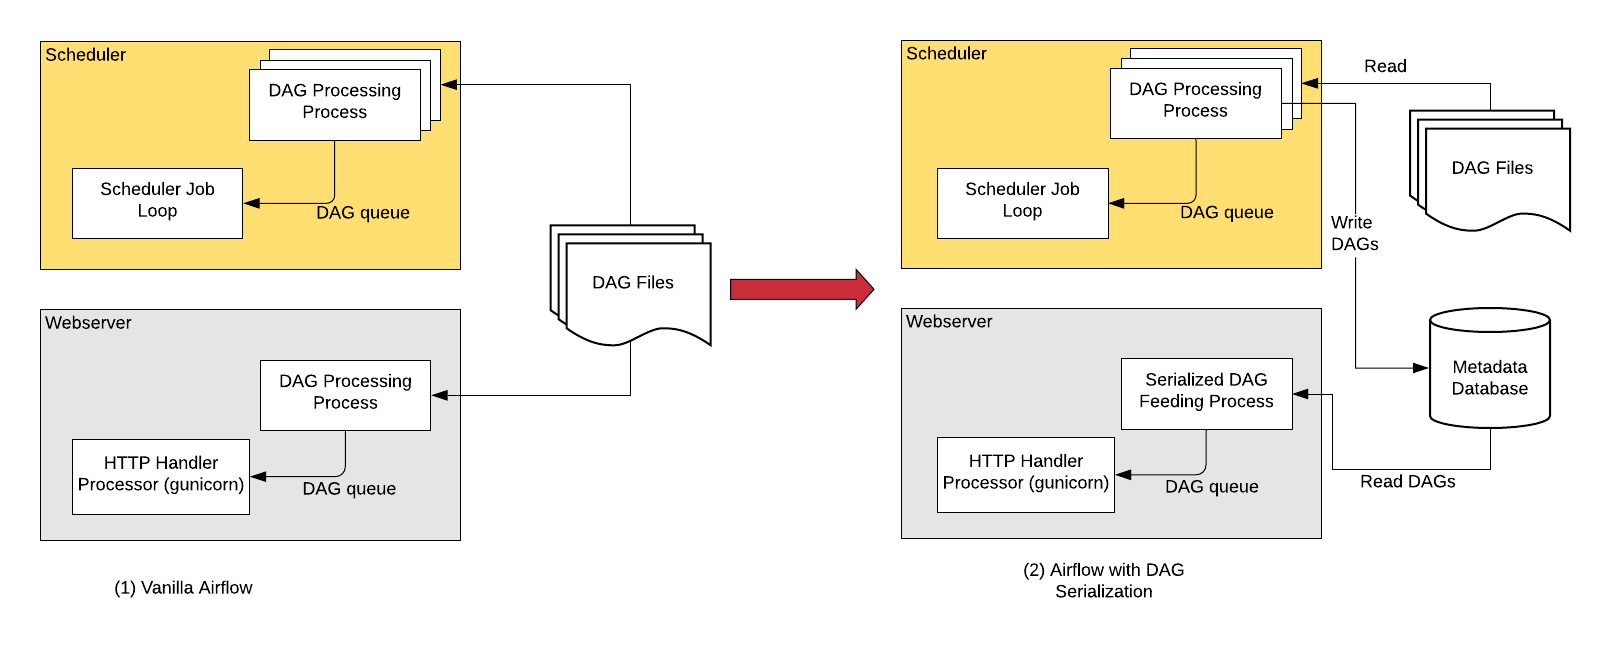
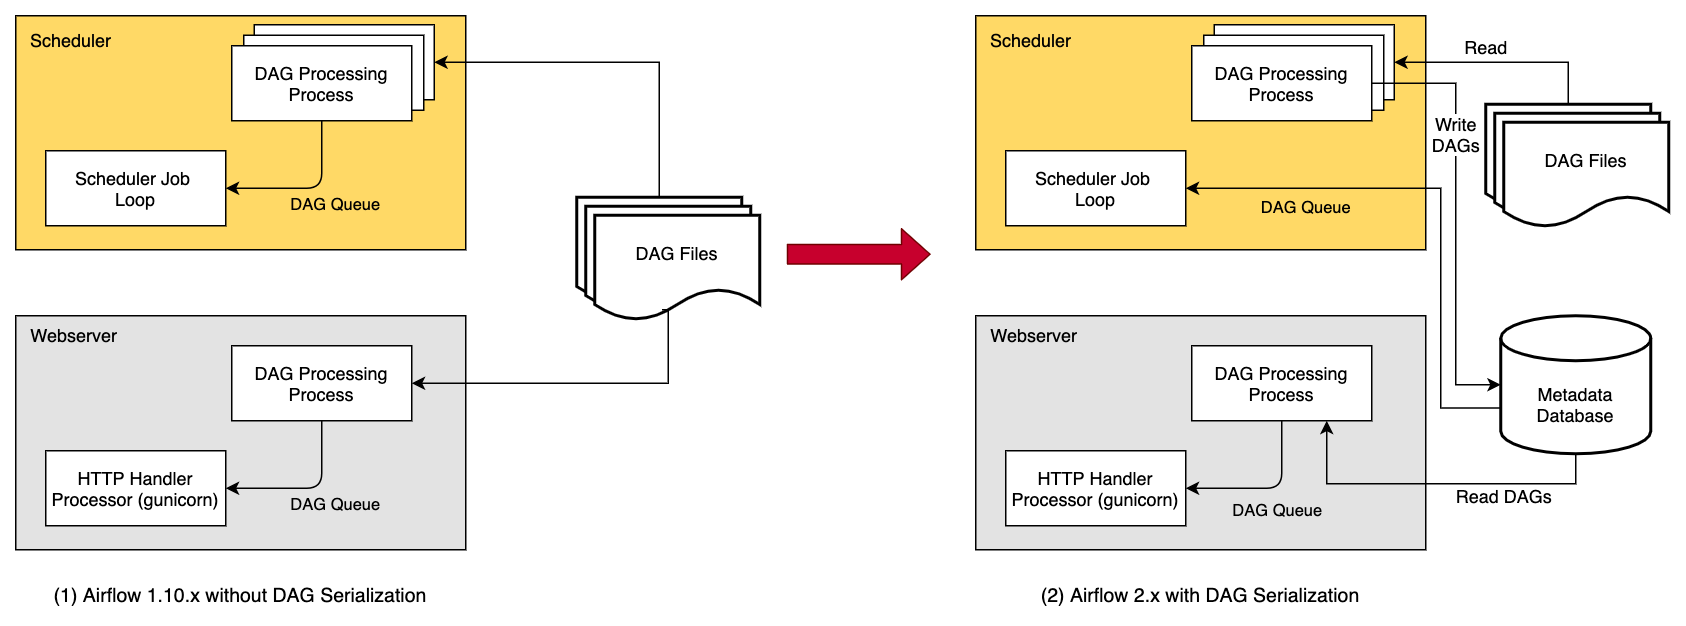
Update DAG Serialization docs (#13722)
- Updated the figure to show Scheduler uses Serialized DAGs (also added in https://cwiki.apache.org/confluence/display/AIRFLOW/Drawio+Diagrams)
- And updated the description

diff --git a/docs/apache-airflow/dag-serialization.rst b/docs/apache-airflow/dag-serialization.rst
@@ -22,7 +22,8 @@ DAG Serialization
 =================
 
 In order to make Airflow Webserver stateless, Airflow >=1.10.7 supports
-DAG Serialization and DB Persistence.
+DAG Serialization and DB Persistence. From Airflow 2.0.0, the Scheduler
+also use Serialized DAGs for consistency and make Scheduling decisions.
 
 .. image:: img/dag_serialization.png
 
@@ -33,25 +34,28 @@ With **DAG Serialization** we aim to decouple the webserver from DAG parsing
 which would make the Webserver very light-weight.
 
 As shown in the image above, when using the this feature,
-the Scheduler parses the DAG files, serializes them in JSON format and saves them in the Metadata DB
-as :class:`airflow.models.serialized_dag.SerializedDagModel` model.
+the :class:`~airflow.jobs.scheduler_job.DagFileProcessorProcess` in the Scheduler
+parses the DAG files, serializes them in JSON format and saves them in the Metadata DB
+as :class:`~airflow.models.serialized_dag.SerializedDagModel` model.
 
 The Webserver now instead of having to parse the DAG file again, reads the
 serialized DAGs in JSON, de-serializes them and create the DagBag and uses it
-to show in the UI.
+to show in the UI. And the Scheduler does not need the actual DAG for making Scheduling decisions,
+instead of using the DAG files, we use Serialized DAGs that contain all the information needing to
+schedule the DAGs from Airflow 2.0.0 (this was done as part of :ref:`Scheduler HA <scheduler:ha>`).
 
 One of the key features that is implemented as the part of DAG Serialization is that
 instead of loading an entire DagBag when the WebServer starts we only load each DAG on demand from the
 Serialized Dag table. This helps reduce Webserver startup time and memory. The reduction is notable
 when you have large number of DAGs.
 
-You can enable the source code to be stored in the database to make it completely independent from DAG files.
+You can enable the source code to be stored in the database to make the Webserver completely independent of the DAG files.
 This is not necessary if your files are embedded in an Docker image or you can otherwise provide
-them to the webserver. The data is stored in the :class:`airflow.models.dagcode.DagCode` model.
+them to the webserver. The data is stored in the :class:`~airflow.models.dagcode.DagCode` model.
 
 The last element is rendering template fields. When serialization is enabled, templates are not rendered
 to requests, but a copy of the field contents is saved before the task is executed on worker.
-The data is stored in the :class:`airflow.models.renderedtifields.RenderedTaskInstanceFields` model.
+The data is stored in the :class:`~airflow.models.renderedtifields.RenderedTaskInstanceFields` model.
 To limit the excessive growth of the database, only the most recent entries are kept and older entries
 are purged.
 

diff --git a/docs/apache-airflow/scheduler.rst b/docs/apache-airflow/scheduler.rst
@@ -69,6 +69,8 @@ the scheduler won't execute it now but the scheduler will execute it in the futu
 Running More Than One Scheduler
 -------------------------------
 
+.. _scheduler:ha:
+
 .. versionadded: 2.0.0
 
 Airflow supports running more than one scheduler concurrently -- both for performance reasons and for
